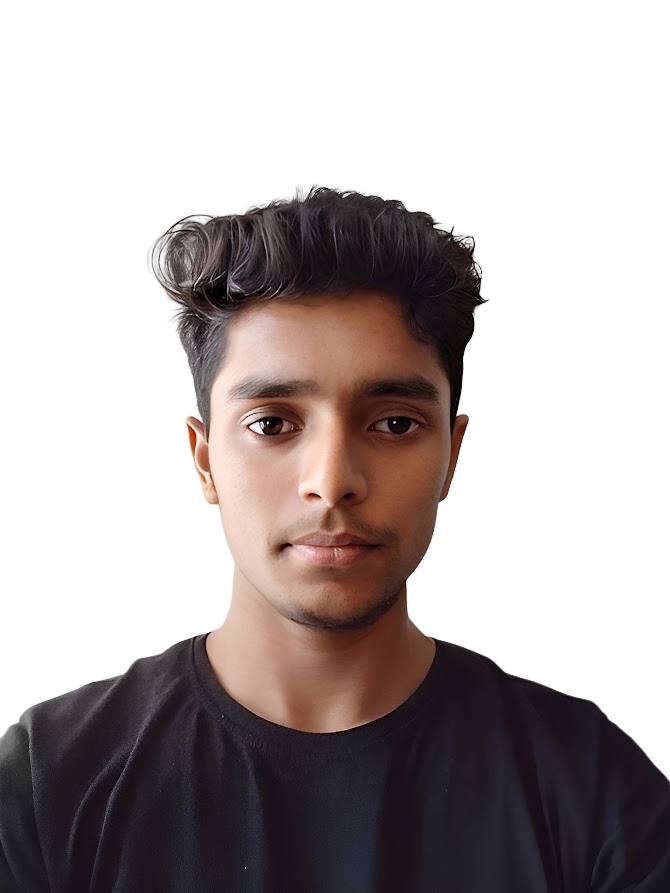
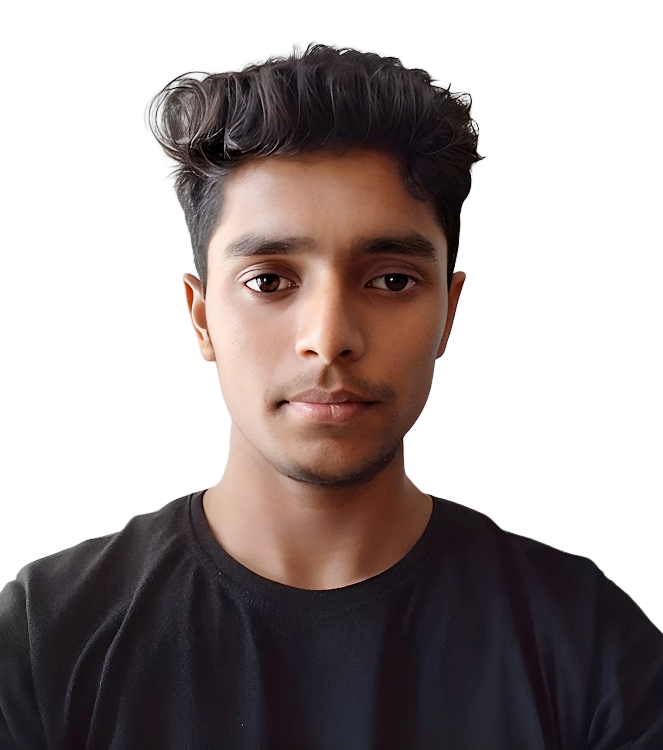
updated

Changed region(s): [[0.0, 0.0613, 1.0, 0.9507]]

diff --git a/index.html b/index.html
@@ -88,7 +88,7 @@
                         aria-hidden="true"></i></a>
             </div>
             <div class="home-img hiddenY">
-                <img src="Darshan.png" alt="Darshan">
+                <img src="webImg.png" alt="Darshan">
             </div>
         </div>
         <!----------------------------------------Home End---------------------------------->
@@ -98,7 +98,10 @@
                 <h1>About Me</h1>
             </div>
             <div class="about-info">
-                <img class="about-image hiddenX" src="person2.jpg" alt="person2">
+                <div class="about-image">
+                    <img src="Darshan.png" alt="person2">
+                </div>
+
                 <div class="about-para hiddenY">
                     <p> I am a highly motivated and detail-oriented individual,
                         with a ability to work both independently and as part of a team.

diff --git a/style.css b/style.css
@@ -436,14 +436,14 @@ header {
   justify-content: center;
   align-items: center;
   width: 23rem;
-  border-radius: 50%;
-  overflow: hidden;
-  margin: -12px 0 0 37px;
-  background-color: var(--theme-color);
+  /* border-radius: 50%; */
+  /* overflow: hidden; */
+  margin: -12px 0 0 7rem;
+  /* background-color: var(--theme-color); */
 }
 
 .home .home-img img {
-  width: 17rem;
+  width: 37rem;
 }
 
 /* --------------------------------------Home End------------------------------ */
@@ -465,8 +465,18 @@ header {
 }
 
 .about .about-info .about-image {
-  width: 27rem;
+  background-color: var(--theme-color);
+  display: flex;
+  justify-content: center;
+  align-items: center;
+  /* width: 27rem; */
+  height: 21rem;
   border-radius: 30px;
+}
+
+.about .about-info .about-image img {
+  /* width: 100%; */
+  height: 21rem;
 }
 
 .about .about-info .about-para {
